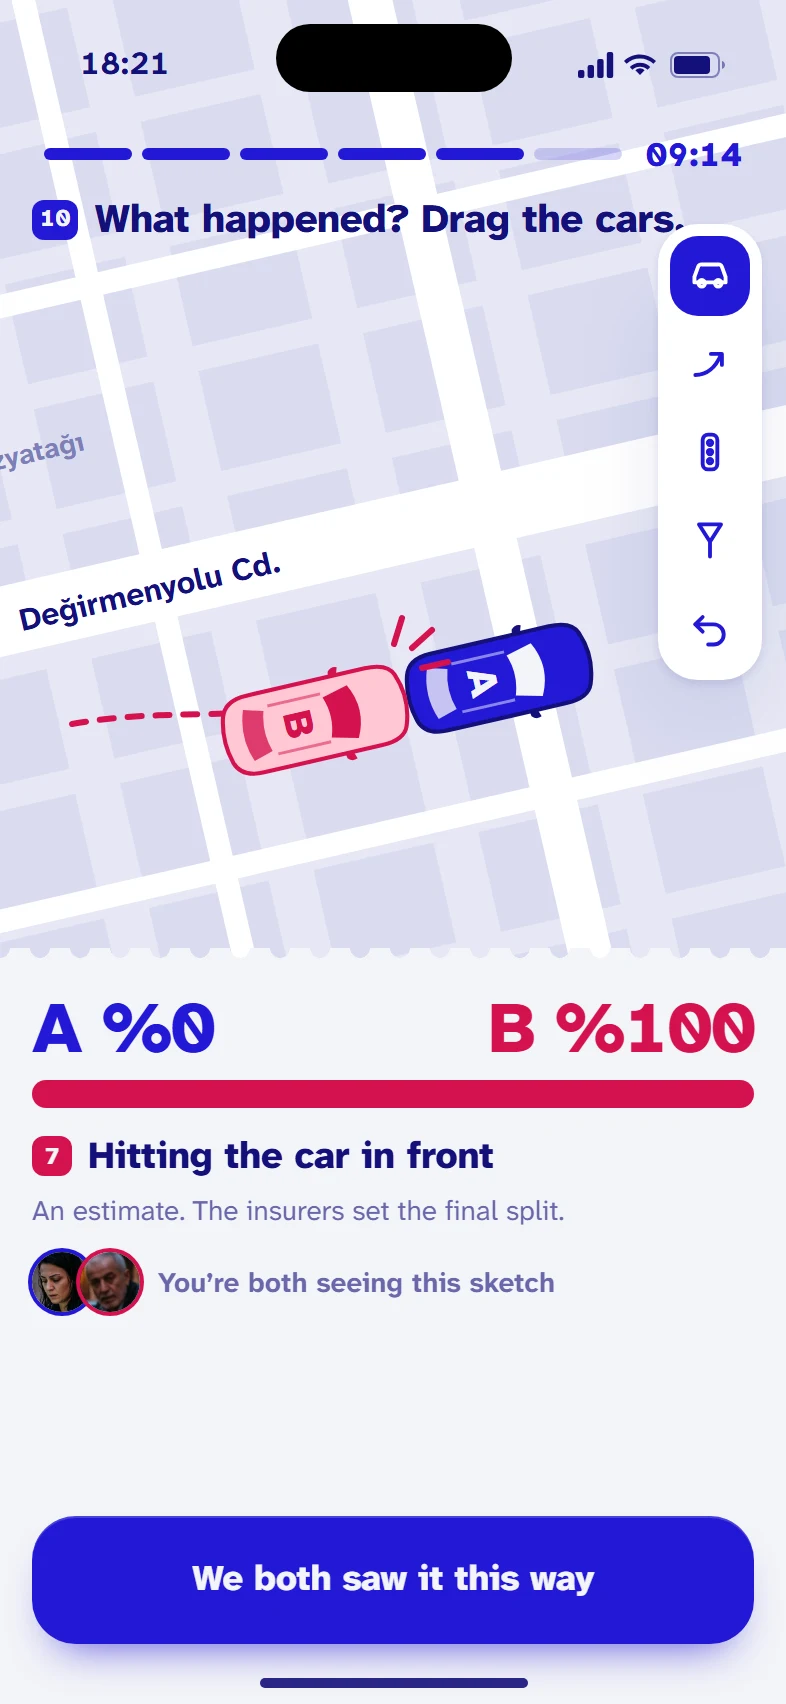
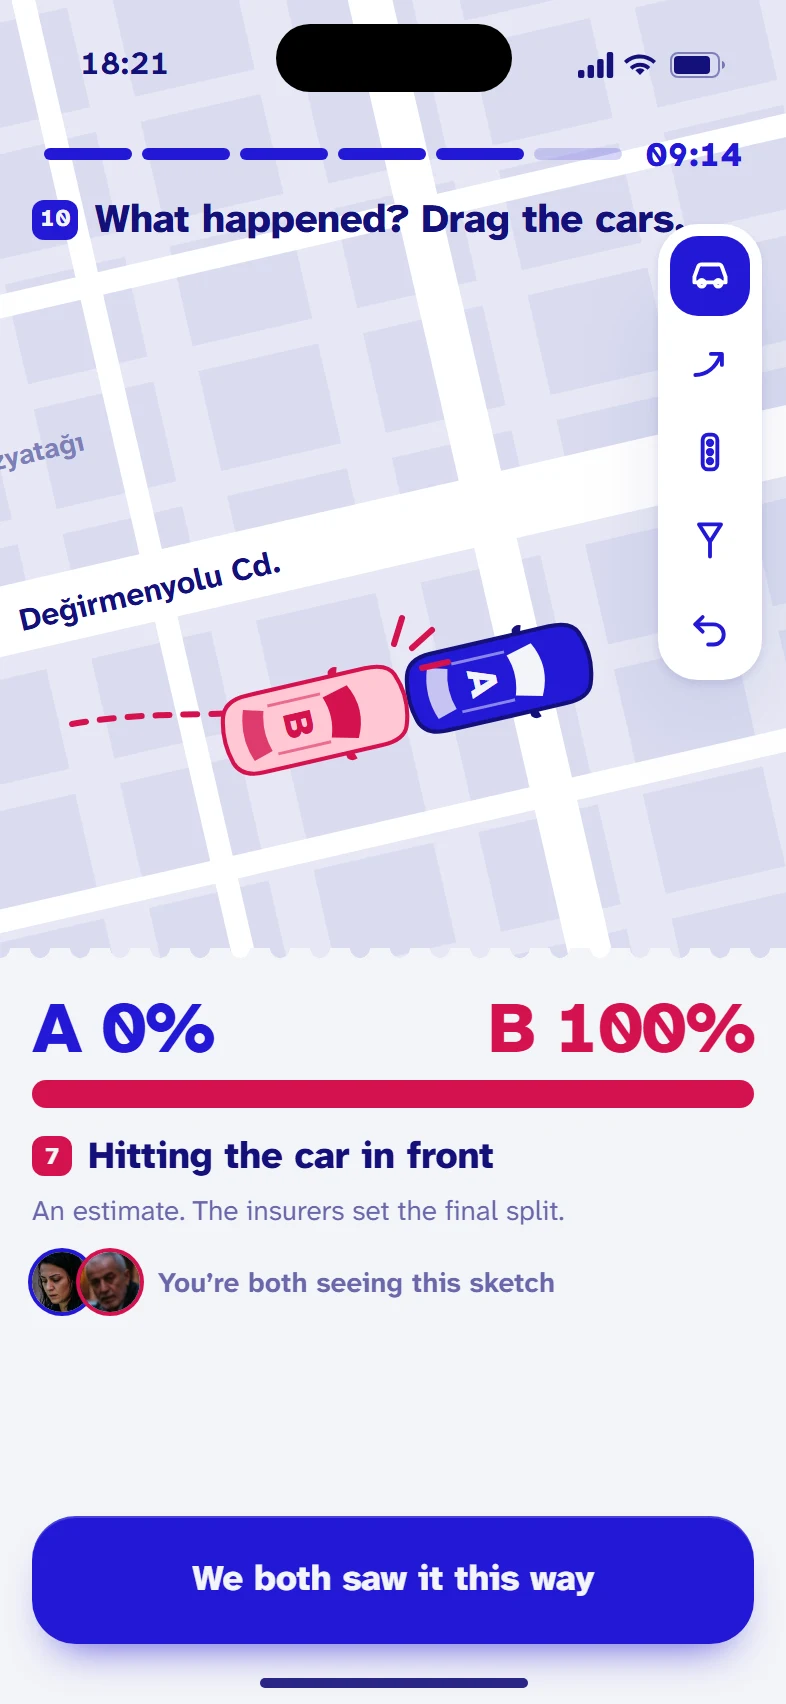
Kusur: İngilizcede yüzde işareti sayıdan sonra, telefonda kroki metinden ayrıldı
İngilizce ekranlar ve krokinin canlı oranı "A %0" yerine "A 0%" yazıyor;
Türkçe yazım değişmedi. Telefonda kroki ile sonuç şeridi 14 birim aşağı
alındı, açıklamanın son satırı krokinin çizgisine değmiyor.

Changed region(s): [[0.7023, 0.591, 0.9771, 0.6221], [0.1221, 0.591, 0.2748, 0.6221]]

diff --git a/src/components/kusur/screens.js b/src/components/kusur/screens.js
@@ -151,6 +151,7 @@ function miniKroki(kind = 'rear', size = 76, dark = false) {
 
 export function getScreens(lang = 'tr') {
   const T = (tr, en) => (lang === 'en' ? en : tr);
+  const P = (n) => (lang === 'en' ? `${n}%` : `%${n}`);
 
   const nav = (on) => `<div class="ks-nav">
     <span class="${on === 0 ? 'on' : ''}">${I.glove}${T('Torpido', 'Glovebox')}</span>
@@ -308,7 +309,7 @@ export function getScreens(lang = 'tr') {
             <div style="flex:none;border-radius:16px;overflow:hidden;background:#fff;box-shadow:0 10px 18px -10px #000">${miniKroki('rear', 88)}</div>
           </div>
           <div class="ks-bar" style="position:relative;margin-top:13px;background:rgba(243,244,248,.2)"><i style="width:100%;background:#FFC7D4"></i></div>
-          <p style="position:relative;display:flex;justify-content:space-between;margin-top:5px;font-size:14px;font-weight:800"><span>A %0</span><span>B %100</span></p>
+          <p style="position:relative;display:flex;justify-content:space-between;margin-top:5px;font-size:14px;font-weight:800"><span>A ${P(0)}</span><span>B ${P(100)}</span></p>
           <div style="position:relative;display:flex;align-items:center;gap:10px;margin-top:12px;padding:9px 12px;border-radius:16px;background:rgba(243,244,248,.13)">
             ${av('eksper', 36, 'rgba(243,244,248,.7)')}
             <div style="flex:1"><p style="font-size:14.500px;font-weight:800">${T('Eksper 10 Kasım, 10.00', 'Assessor on 10 Nov, 10:00')}</p><p style="font-size:13px;opacity:.82">Selin Demir</p></div>
@@ -317,8 +318,8 @@ export function getScreens(lang = 'tr') {
         </div>
         <div style="margin:12px 14px 0;display:grid;gap:9px">
           ${[
-            [T('18 Ağustos 2024', '18 August 2024'), 'Beşiktaş', 'A %50, B %50', T('12.300 ₺ ödendi', '₺12,300 paid'), 'side'],
-            [T('2 Mart 2022', '2 March 2022'), 'Maltepe', 'A %100, B %0', T('Basamak düştü', 'Step dropped'), 'junction'],
+            [T('18 Ağustos 2024', '18 August 2024'), 'Beşiktaş', `A ${P(50)}, B ${P(50)}`, T('12.300 ₺ ödendi', '₺12,300 paid'), 'side'],
+            [T('2 Mart 2022', '2 March 2022'), 'Maltepe', `A ${P(100)}, B ${P(0)}`, T('Basamak düştü', 'Step dropped'), 'junction'],
           ]
             .map(([d, p, r, n, k]) => `<div class="ks-card" style="display:flex;align-items:center;gap:12px;padding:8px 14px 8px 8px;border-radius:20px"><div style="border-radius:13px;overflow:hidden;background:#F3F4F8;flex:none">${miniKroki(k, 60)}</div><div style="flex:1;min-width:0"><p class="ks-h4" style="font-size:16.500px">${d}</p><p class="ks-small">${p}, ${r}</p></div><span class="ks-chip" style="height:26px;font-size:12px;padding:0 9px;background:transparent;padding-right:0">${n}</span></div>`)
             .join('')}
@@ -591,7 +592,7 @@ export function getScreens(lang = 'tr') {
           ${[I.car, I.arrow, I.light, I.sign, I.undo].map((ic, i) => `<span style="display:grid;place-items:center;width:40px;height:40px;border-radius:14px;${i === 0 ? 'background:#2318D6;color:#fff' : 'color:#2318D6'}"><i style="display:block;width:22px;height:22px">${ic}</i></span>`).join('')}
         </div>
         <div class="ks-sheet" style="position:absolute;left:0;right:0;bottom:0;top:420px;padding:22px 16px 0;display:flex;flex-direction:column">
-          <p class="ks-num" style="display:flex;justify-content:space-between;align-items:baseline;font-size:36px;font-weight:800;letter-spacing:-.03em;line-height:1"><span style="color:#2318D6">A %0</span><span style="color:#D4124E">B %100</span></p>
+          <p class="ks-num" style="display:flex;justify-content:space-between;align-items:baseline;font-size:36px;font-weight:800;letter-spacing:-.03em;line-height:1"><span style="color:#2318D6">A ${P(0)}</span><span style="color:#D4124E">B ${P(100)}</span></p>
           <div class="ks-bar" style="margin-top:8px"><i class="b" style="width:100%"></i></div>
           <div style="display:flex;align-items:center;gap:8px;margin-top:12px"><span class="ks-no ks-no--pink">7</span><p style="font-size:19px;font-weight:800;letter-spacing:-.012em">${T('Öndeki araca arkadan çarpma', 'Hitting the car in front')}</p></div>
           <p class="ks-small" style="margin-top:5px">${T('Tahmini. Kesin oranı sigorta şirketleri belirler.', 'An estimate. The insurers set the final split.')}</p>
@@ -603,11 +604,11 @@ export function getScreens(lang = 'tr') {
     oran: {
       cls: '',
       html: `<div class="ks-abs" style="inset:0 0 auto;height:166px;background:#2318D6;color:#F3F4F8;overflow:hidden;padding:68px 20px 0"><i class="ks-gui"></i>
-          <div style="position:relative;display:flex;align-items:center;gap:10px">${av('burcu', 40, '#F3F4F8')}<p style="font-size:15px;font-weight:700;line-height:1.1">Burcu<br><span style="opacity:.8">${T('A sürücüsü', 'Driver A')}</span></p><p class="ks-num" style="margin-left:auto;font-size:60px;font-weight:800;letter-spacing:-.04em;line-height:1">%0</p></div>
+          <div style="position:relative;display:flex;align-items:center;gap:10px">${av('burcu', 40, '#F3F4F8')}<p style="font-size:15px;font-weight:700;line-height:1.1">Burcu<br><span style="opacity:.8">${T('A sürücüsü', 'Driver A')}</span></p><p class="ks-num" style="margin-left:auto;font-size:60px;font-weight:800;letter-spacing:-.04em;line-height:1">${P(0)}</p></div>
         </div>
         <div class="ks-abs" style="left:0;right:0;top:166px;height:236px;background:#FFC7D4;color:#D4124E;overflow:hidden;padding:18px 20px 0"><i class="ks-gui ks-gui--pink"></i>
           <div style="position:relative;display:flex;align-items:center;gap:10px">${av('hakan', 40, '#D4124E')}<p style="font-size:15px;font-weight:700;line-height:1.1">Hakan Bey<br><span style="opacity:.8">${T('B sürücüsü', 'Driver B')}</span></p></div>
-          <p class="ks-num" style="position:relative;margin-top:14px;font-size:126px;font-weight:800;letter-spacing:-.05em;line-height:1;text-align:right">%100</p>
+          <p class="ks-num" style="position:relative;margin-top:14px;font-size:126px;font-weight:800;letter-spacing:-.05em;line-height:1;text-align:right">${P(100)}</p>
         </div>
         <div style="color:#F3F4F8">${status('18:23')}</div>
         <div class="ks-sheet" style="position:absolute;left:0;right:0;top:392px;bottom:0;padding:22px 16px 0;display:flex;flex-direction:column">
@@ -708,7 +709,7 @@ export function getScreens(lang = 'tr') {
           </div>
         </div>
         <div style="display:grid;grid-template-columns:1fr 1fr;gap:10px;margin:10px 14px 0">
-          <div class="ks-card" style="padding:12px 14px"><p class="ks-label">${T('Kusur oranı', 'Fault split')}</p><p class="ks-num" style="margin-top:4px;font-size:15px;font-weight:800;display:flex;justify-content:space-between"><span style="color:#2318D6">A %0</span><span style="color:#D4124E">B %100</span></p><div class="ks-bar" style="height:9px;margin-top:6px"><i class="b" style="width:100%"></i></div></div>
+          <div class="ks-card" style="padding:12px 14px"><p class="ks-label">${T('Kusur oranı', 'Fault split')}</p><p class="ks-num" style="margin-top:4px;font-size:15px;font-weight:800;display:flex;justify-content:space-between"><span style="color:#2318D6">A ${P(0)}</span><span style="color:#D4124E">B ${P(100)}</span></p><div class="ks-bar" style="height:9px;margin-top:6px"><i class="b" style="width:100%"></i></div></div>
           <div class="ks-card" style="padding:12px 14px"><p class="ks-label">${T('Onarım tahmini', 'Repair estimate')}</p><p class="ks-num" style="margin-top:3px;font-size:22px;font-weight:800;letter-spacing:-.025em">24.600 ₺</p><p class="ks-small" style="font-size:12.500px">${T('Karşı sigorta öder', 'Other insurer pays')}</p></div>
         </div>
         <div class="ks-card" style="margin:10px 14px 0;padding:10px 14px;display:flex;align-items:center;gap:10px"><span class="ks-round ks-round--ink" style="width:38px;height:38px">${I.wrench}</span><div style="flex:1"><p class="ks-h4" style="font-size:16px">Kozyatağı Oto</p><p class="ks-small" style="font-size:13px">${T('Seçtiğin servis, 1,2 km', 'Your garage, 1.2 km away')}</p></div><span style="display:inline-flex;align-items:center;gap:4px;font-size:14.500px;font-weight:800;color:#D4124E"><i style="width:15px;height:15px;display:block">${I.star}</i>4,8</span></div>

diff --git a/src/components/kusur/Kroki.tsx b/src/components/kusur/Kroki.tsx
@@ -3,6 +3,9 @@ import { useLang } from '../../lib/i18n';
 import { reducedMotion } from '../../lib/scroll';
 import { useMobile } from '../Scenes';
 import { useSceneProgress } from '../sceneProgress';
+
+// Türkçede yüzde işareti sayıdan önce, İngilizcede sonra gelir.
+const pct = (lang: string, n: number) => (lang === 'en' ? `${n}%` : `%${n}`);
 import { car, CAR_A, CAR_B } from './screens.js';
 
 // Sayfanın imza anı: ziyaretçi krokideki iki arabayı sürükler, tahmini kusur oranı canlı değişir.
@@ -83,6 +86,8 @@ export default function Kroki() {
   const { lang } = useLang();
   const T = (o: { tr: string; en: string }) => (lang === 'en' ? o.en : o.tr);
   const L = (tr: string, en: string) => (lang === 'en' ? en : tr);
+  const langRef = useRef(lang);
+  langRef.current = lang;
 
   const svg = useRef<SVGSVGElement>(null);
   const wrap = useRef<HTMLDivElement>(null);
@@ -187,8 +192,8 @@ export default function Kroki() {
       place(carB.current, s.shownB, s.b, s.opacity.b, s.drag === 'b');
       s.shown.a += (s.target.a - s.shown.a) * 0.18;
       s.shown.b += (s.target.b - s.shown.b) * 0.18;
-      const ta = `A %${Math.round(s.shown.a)}`;
-      const tb = `B %${Math.round(s.shown.b)}`;
+      const ta = `A ${pct(langRef.current, Math.round(s.shown.a))}`;
+      const tb = `B ${pct(langRef.current, Math.round(s.shown.b))}`;
       if (numA.current && numA.current.textContent !== ta) numA.current.textContent = ta;
       if (numB.current && numB.current.textContent !== tb) numB.current.textContent = tb;
     };
@@ -287,7 +292,7 @@ export default function Kroki() {
 
   // Masaüstü ve telefon yerleşimi
   const box = mobile
-    ? { sk: { left: 0, top: 112, width: 400, height: 336 }, res: { left: 20, top: 462, width: 360 } }
+    ? { sk: { left: 0, top: 126, width: 400, height: 336 }, res: { left: 20, top: 476, width: 360 } }
     : { sk: { left: 660, top: 16, width: 880, height: 532 }, res: { left: 660, top: 572, width: 880 } };
   const px = (o: Record<string, number>): CSSProperties => Object.fromEntries(Object.entries(o).map(([k, v]) => [k, `calc(var(--u) * ${v})`])) as CSSProperties;
 
@@ -355,10 +360,10 @@ export default function Kroki() {
       <div aria-live="polite" style={{ position: 'absolute', ...px(box.res) }}>
         <p style={{ display: 'flex', justifyContent: 'space-between', fontSize: `calc(var(--u) * ${mobile ? 44 : 64})`, fontWeight: 800, letterSpacing: '-0.03em', lineHeight: 1, fontFeatureSettings: '"tnum"' }}>
           <span ref={numA} style={{ color: aColor }}>
-            A %0
+            {`A ${pct(lang, 0)}`}
           </span>
           <span ref={numB} style={{ color: bColor }}>
-            B %0
+            {`B ${pct(lang, 0)}`}
           </span>
         </p>
         <div style={{ display: 'flex', overflow: 'hidden', height: `calc(var(--u) * ${mobile ? 16 : 24})`, marginTop: `calc(var(--u) * ${mobile ? 8 : 10})`, borderRadius: `calc(var(--u) * 14)`, background: 'rgba(35,24,214,.14)' }}>
@@ -412,7 +417,7 @@ export default function Kroki() {
 
       {/* İlk dokunuşa kadar ipucu */}
       {!user && (
-        <p className="ks-hand" style={{ position: 'absolute', left: U(mobile ? 22 : 700), top: U(mobile ? 128 : 40), fontSize: U(mobile ? 25 : 40), color: '#D4124E', transform: 'rotate(-4deg)', pointerEvents: 'none' }}>
+        <p className="ks-hand" style={{ position: 'absolute', left: U(mobile ? 22 : 700), top: U(mobile ? 142 : 40), fontSize: U(mobile ? 25 : 40), color: '#D4124E', transform: 'rotate(-4deg)', pointerEvents: 'none' }}>
           {L('arabaları sürükle!', 'drag the cars!')}
         </p>
       )}
